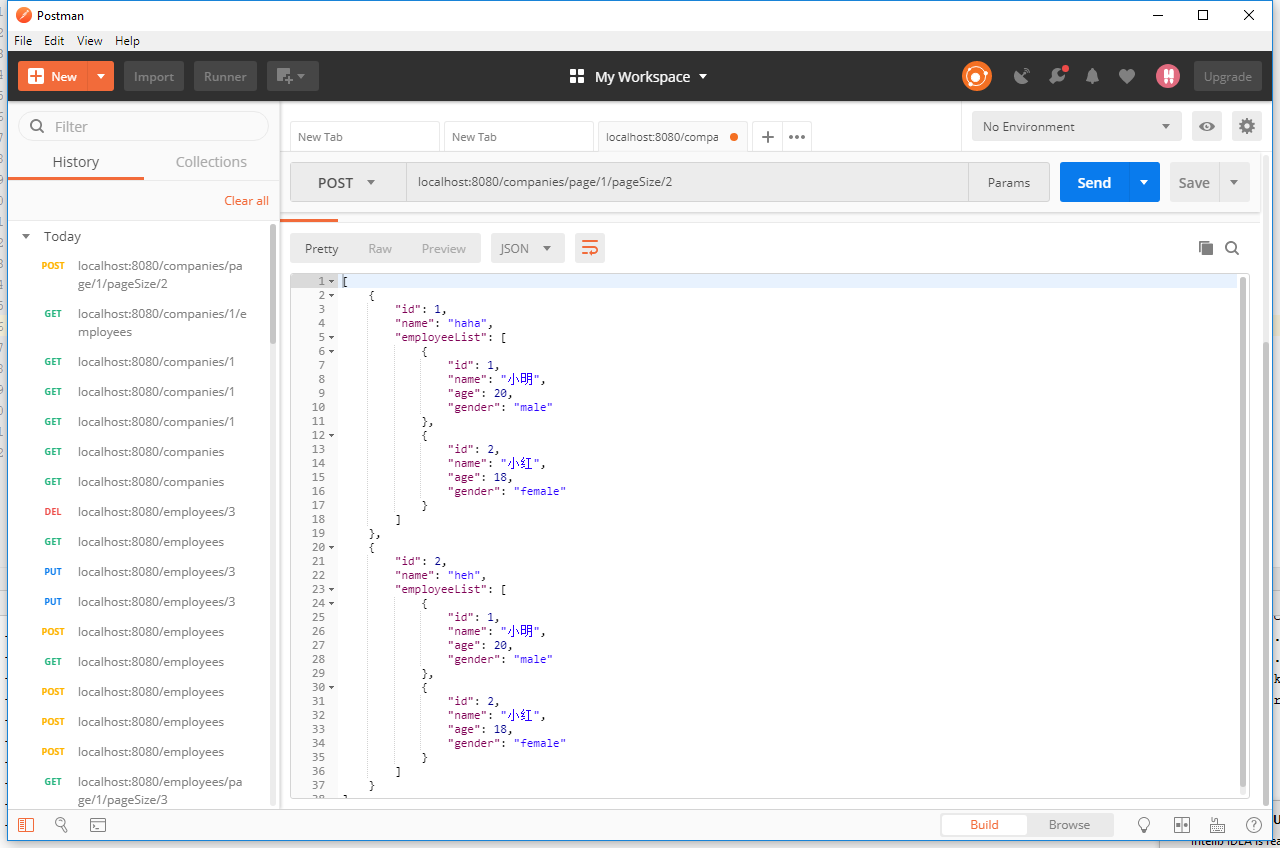
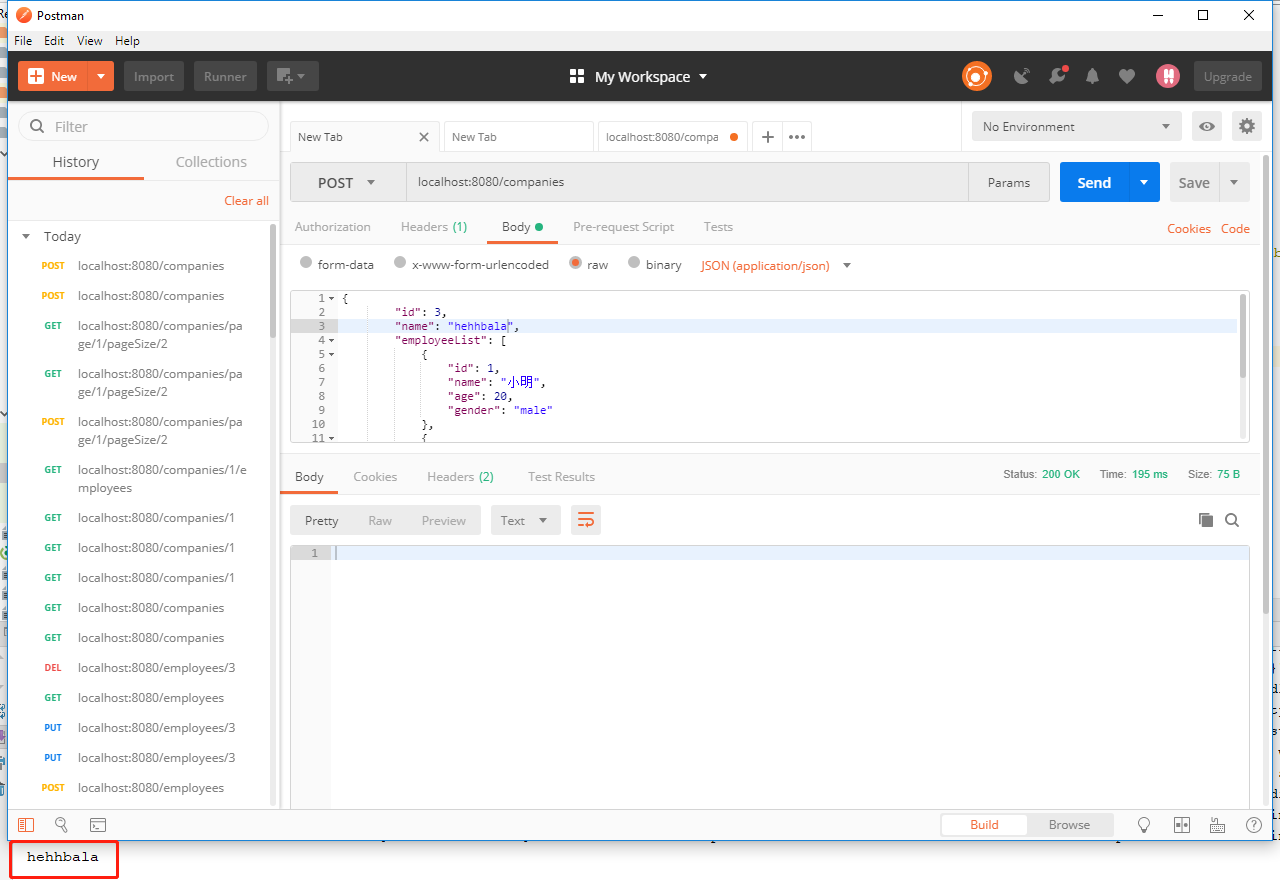
[Jerry]add company and test case

diff --git a/src/main/java/com/oocl/RestfulAPI/CompaniesAPI/CompanyController.java b/src/main/java/com/oocl/RestfulAPI/CompaniesAPI/CompanyController.java
@@ -2,10 +2,7 @@ package com.oocl.RestfulAPI.CompaniesAPI;
 
 import com.oocl.RestfulAPI.EmployeesAPI.Employee;
 import org.springframework.beans.factory.annotation.Autowired;
-import org.springframework.web.bind.annotation.GetMapping;
-import org.springframework.web.bind.annotation.PathVariable;
-import org.springframework.web.bind.annotation.PostMapping;
-import org.springframework.web.bind.annotation.RestController;
+import org.springframework.web.bind.annotation.*;
 
 import java.util.List;
 
@@ -33,9 +30,15 @@ public class CompanyController {
         return employeeList;
     }
 
-    @PostMapping("companies/page/{pageNumber}/pageSize/{pageSize}")
+    @GetMapping("companies/page/{pageNumber}/pageSize/{pageSize}")
     public List<Company> getCompaniesByPage(@PathVariable("pageNumber") int pageNumber, @PathVariable("pageSize") int pageSize) {
         List<Company> Companies = companyService.getCompaniesInPage(pageNumber,pageSize);
         return Companies;
+    }
+
+    @PostMapping("companies")
+    public void addCopany(@RequestBody Company company){
+        companyService.add(company);
+        System.out.println(company.getName());
     }
 }

diff --git a/src/test/java/com/oocl/RestfulAPI/CompanyServiceTest.java b/src/test/java/com/oocl/RestfulAPI/CompanyServiceTest.java
@@ -79,4 +79,19 @@ public class CompanyServiceTest {
 
         assertThat(companyService.getCompaniesInPage(1,2),is(companies));
     }
+
+    @Test
+    public void should_return_should_return_the_3_companies_with_add_3(){
+
+        Company company1 = new Company(1,"nishu",employeeList);
+        Company company2 = new Company(2,"shuia",employeeList);
+        Company company3 = new Company(3,"xixi",employeeList);
+        companies.add(company1);
+        companies.add(company2);
+
+        CompanyService companyService = new CompanyService(companies);
+        companies.add(company3);
+
+        assertThat(companyService.getCompanyList(),is(companies));
+    }
 }

diff --git a/src/main/java/com/oocl/RestfulAPI/CompaniesAPI/CompanyService.java b/src/main/java/com/oocl/RestfulAPI/CompaniesAPI/CompanyService.java
@@ -52,4 +52,8 @@ public class CompanyService {
         }
         return getByPage;
     }
+
+    public void add(Company company) {
+        companies.add(company);
+    }
 }
